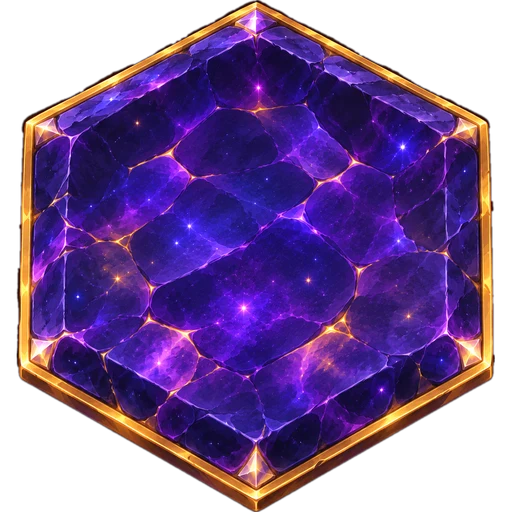
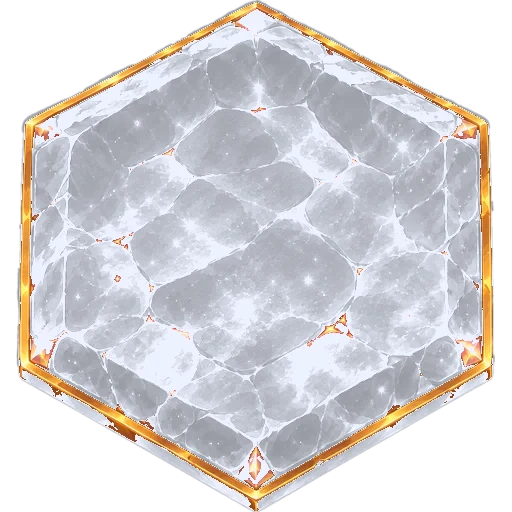
公開桌普通地改銀白色
Claude-Session: https://claude.ai/code/session_01E2utfFQBUZUAHLnSXfgdjb

diff --git a/public/sw.js b/public/sw.js
@@ -1,5 +1,5 @@
 // 大富翁 service worker: keeps the app shell and art so the board opens without a network.
-const CACHE = "dafuweng-v211";
+const CACHE = "dafuweng-v212";
 const SHELL = [
   "/",
   "/manifest.webmanifest",
